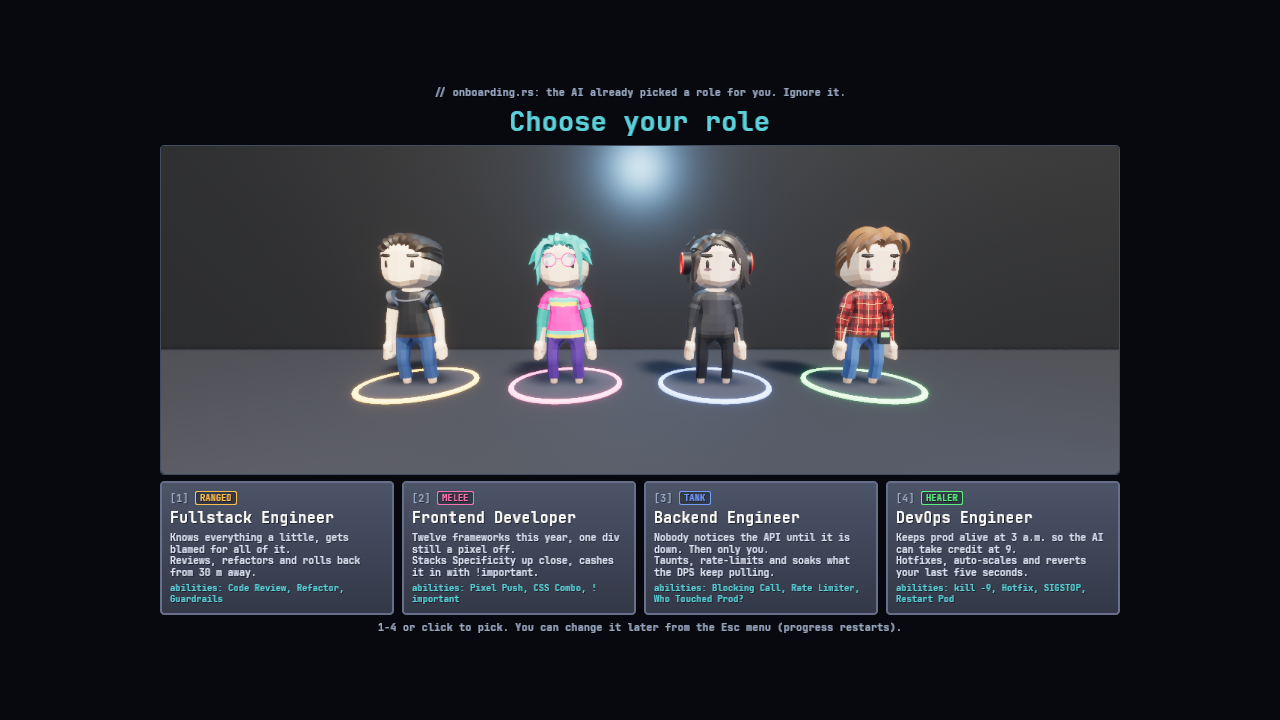
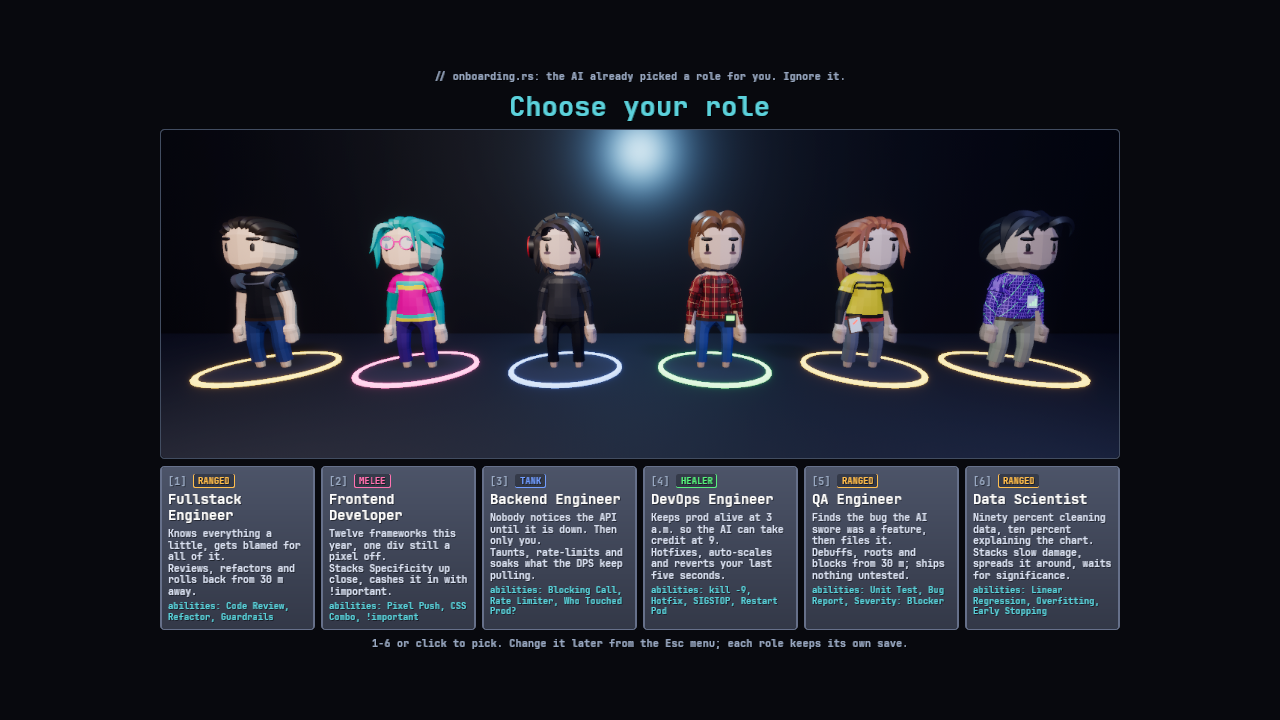
feat: landing shows all six roles and the whole world
Adds QA Engineer and Data Scientist, the six-role picker stage, and a world
grid from Car Park P3 to the raids (28 zones, over 140 quests per
content/game.ron). The gallery uses current screenshots of the campus map,
the Sales floor and Food Truck Plaza.

diff --git a/site/src/styles/site.css b/site/src/styles/site.css
@@ -78,7 +78,7 @@
   .lede { color: var(--muted); font-size: 1.15rem; max-width: 40ch; margin: 20px 0 0; }
 
   .route { list-style: none; padding: 0; margin: 48px 0 0; display: grid; gap: 1px; background: var(--line); border: 1px solid var(--line); border-radius: var(--r-md); overflow: hidden; }
-  @media (min-width: 768px) { .route { grid-template-columns: repeat(4, 1fr); } }
+  @media (min-width: 768px) { .route { grid-template-columns: repeat(3, 1fr); } }
   .route li { background: var(--surface); padding: 24px; display: grid; gap: 6px; align-content: start; }
   .route .lvl { font: 600 0.8rem var(--mono); color: var(--accent); }
   .route .muted { font-size: 0.925rem; }
@@ -119,6 +119,7 @@
   kbd { font: 600 0.8rem var(--mono); padding: 3px 8px; border: 1px solid var(--line); border-bottom-width: 3px; border-radius: var(--r-sm); background: var(--surface); white-space: nowrap; }
 
   .gallery { display: grid; gap: 24px; margin-top: 40px; }
+  @media (min-width: 768px) { .gallery { grid-template-columns: 1fr 1fr; } }
   .gallery figure { margin: 0; }
   .gallery img, .roles-shot img { border: 1px solid var(--line); border-radius: var(--r-md); width: 100%; }
 
